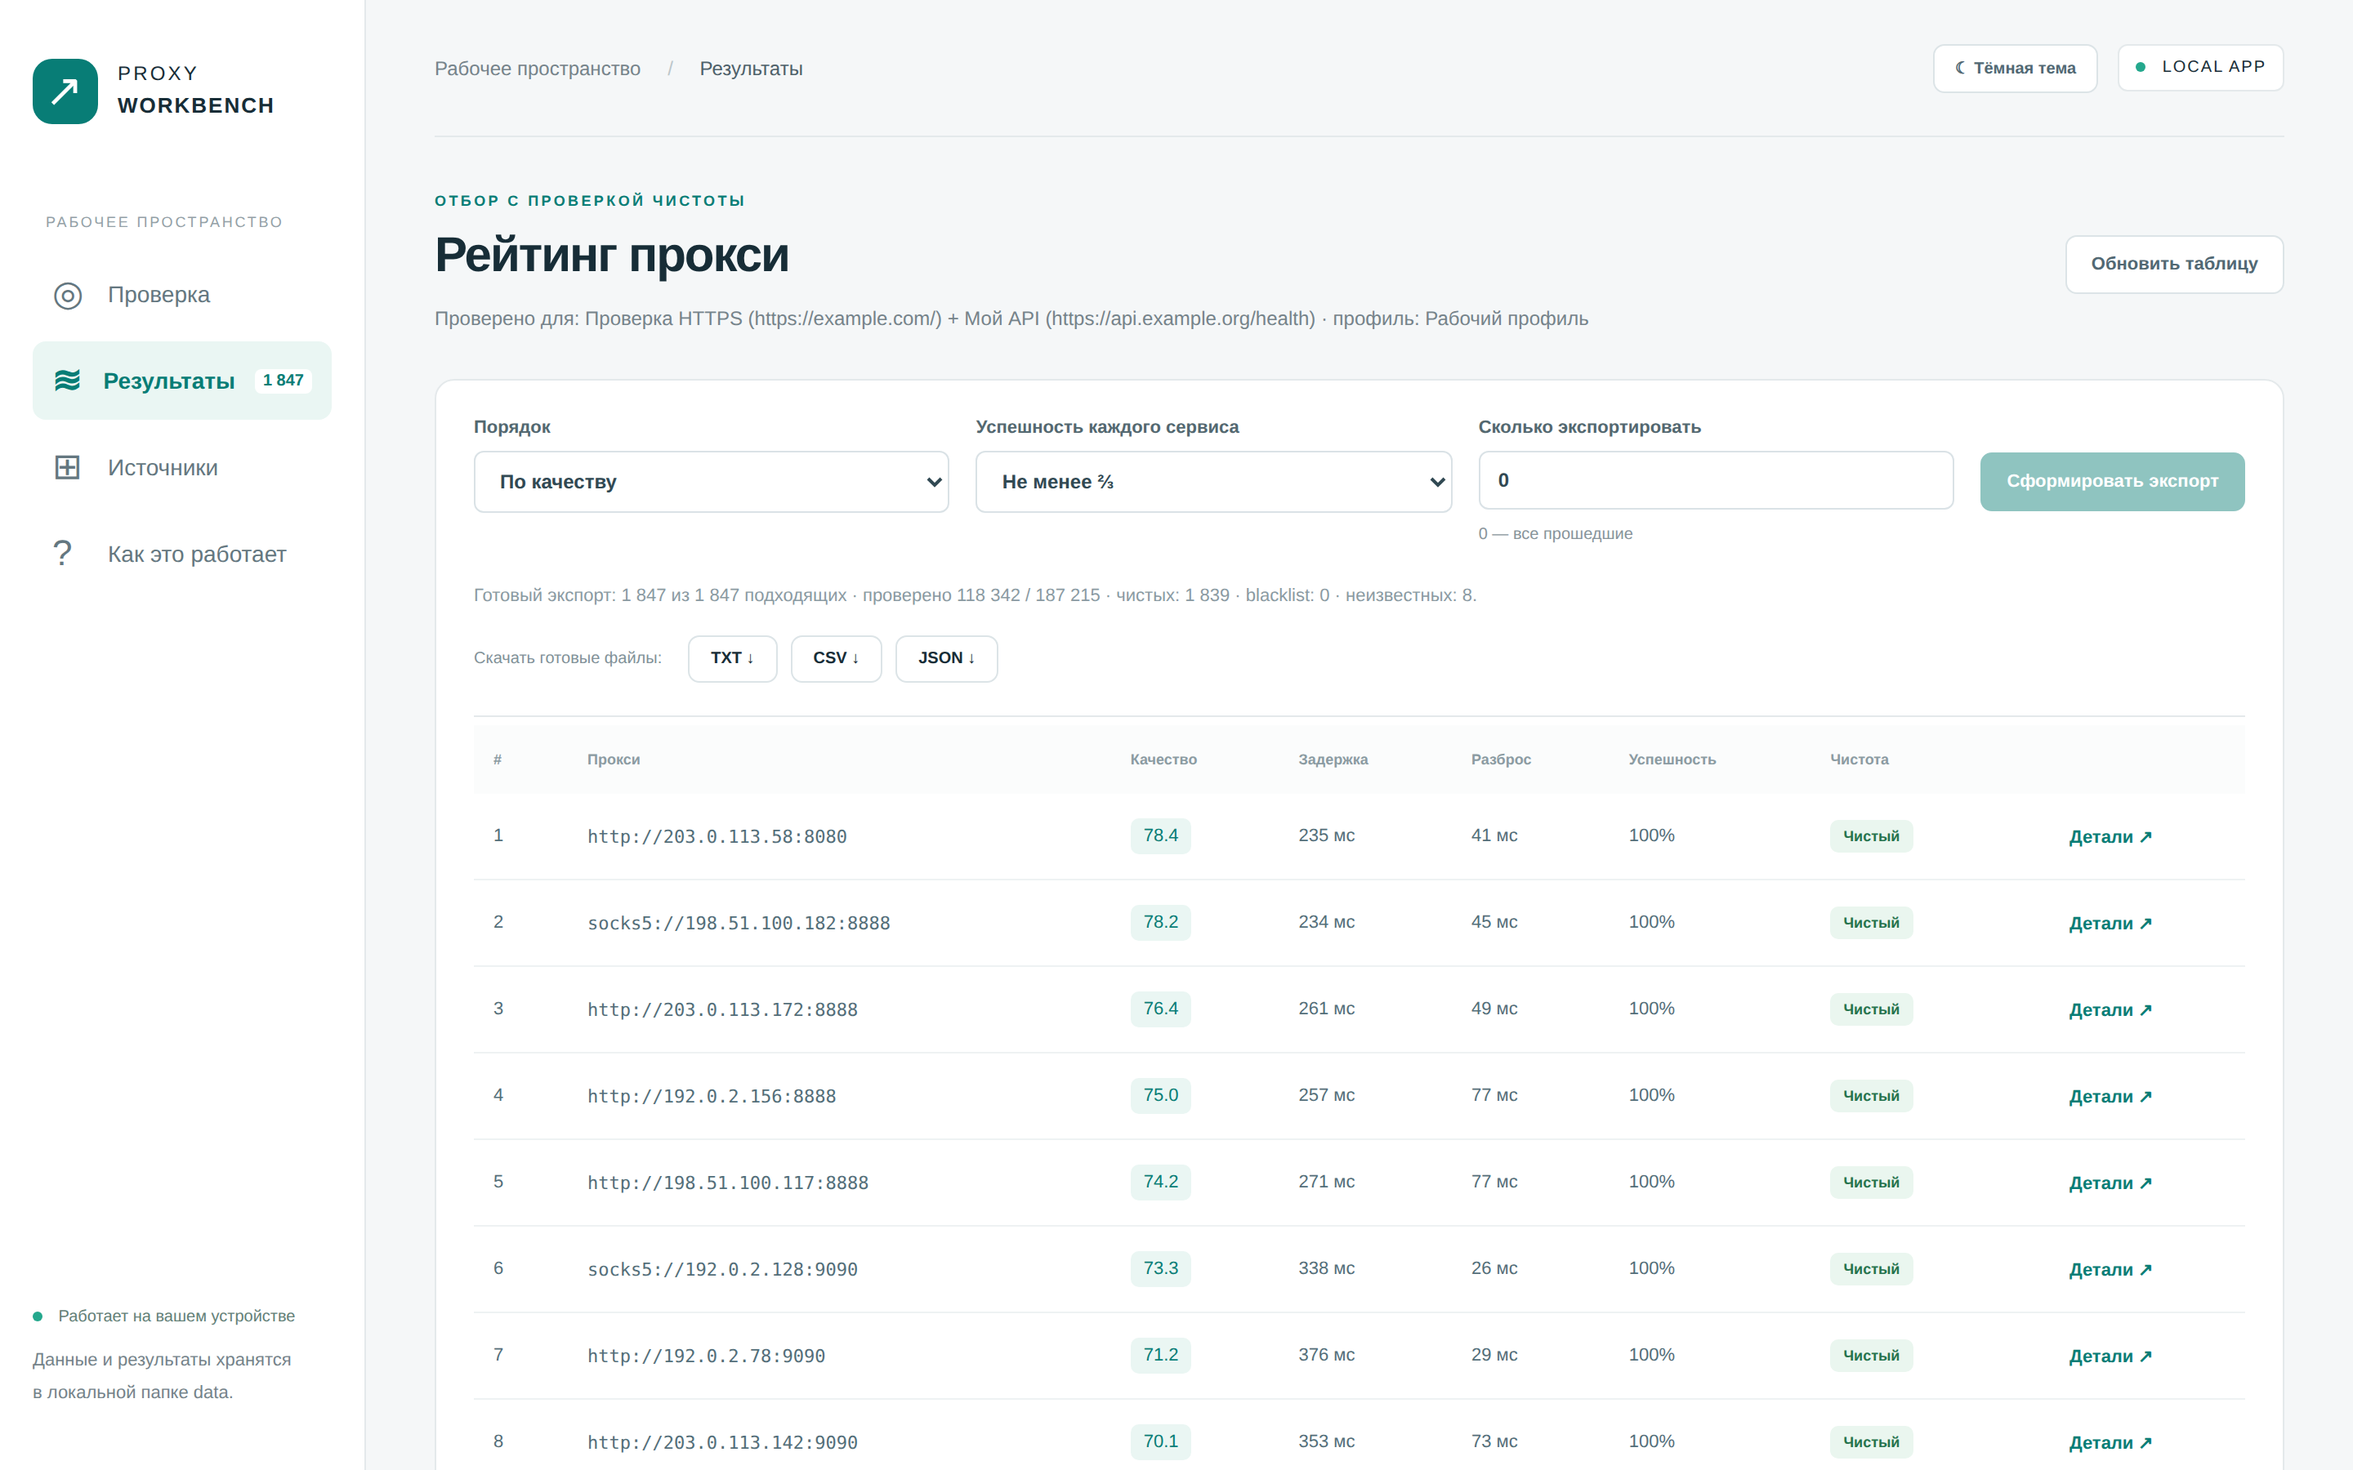
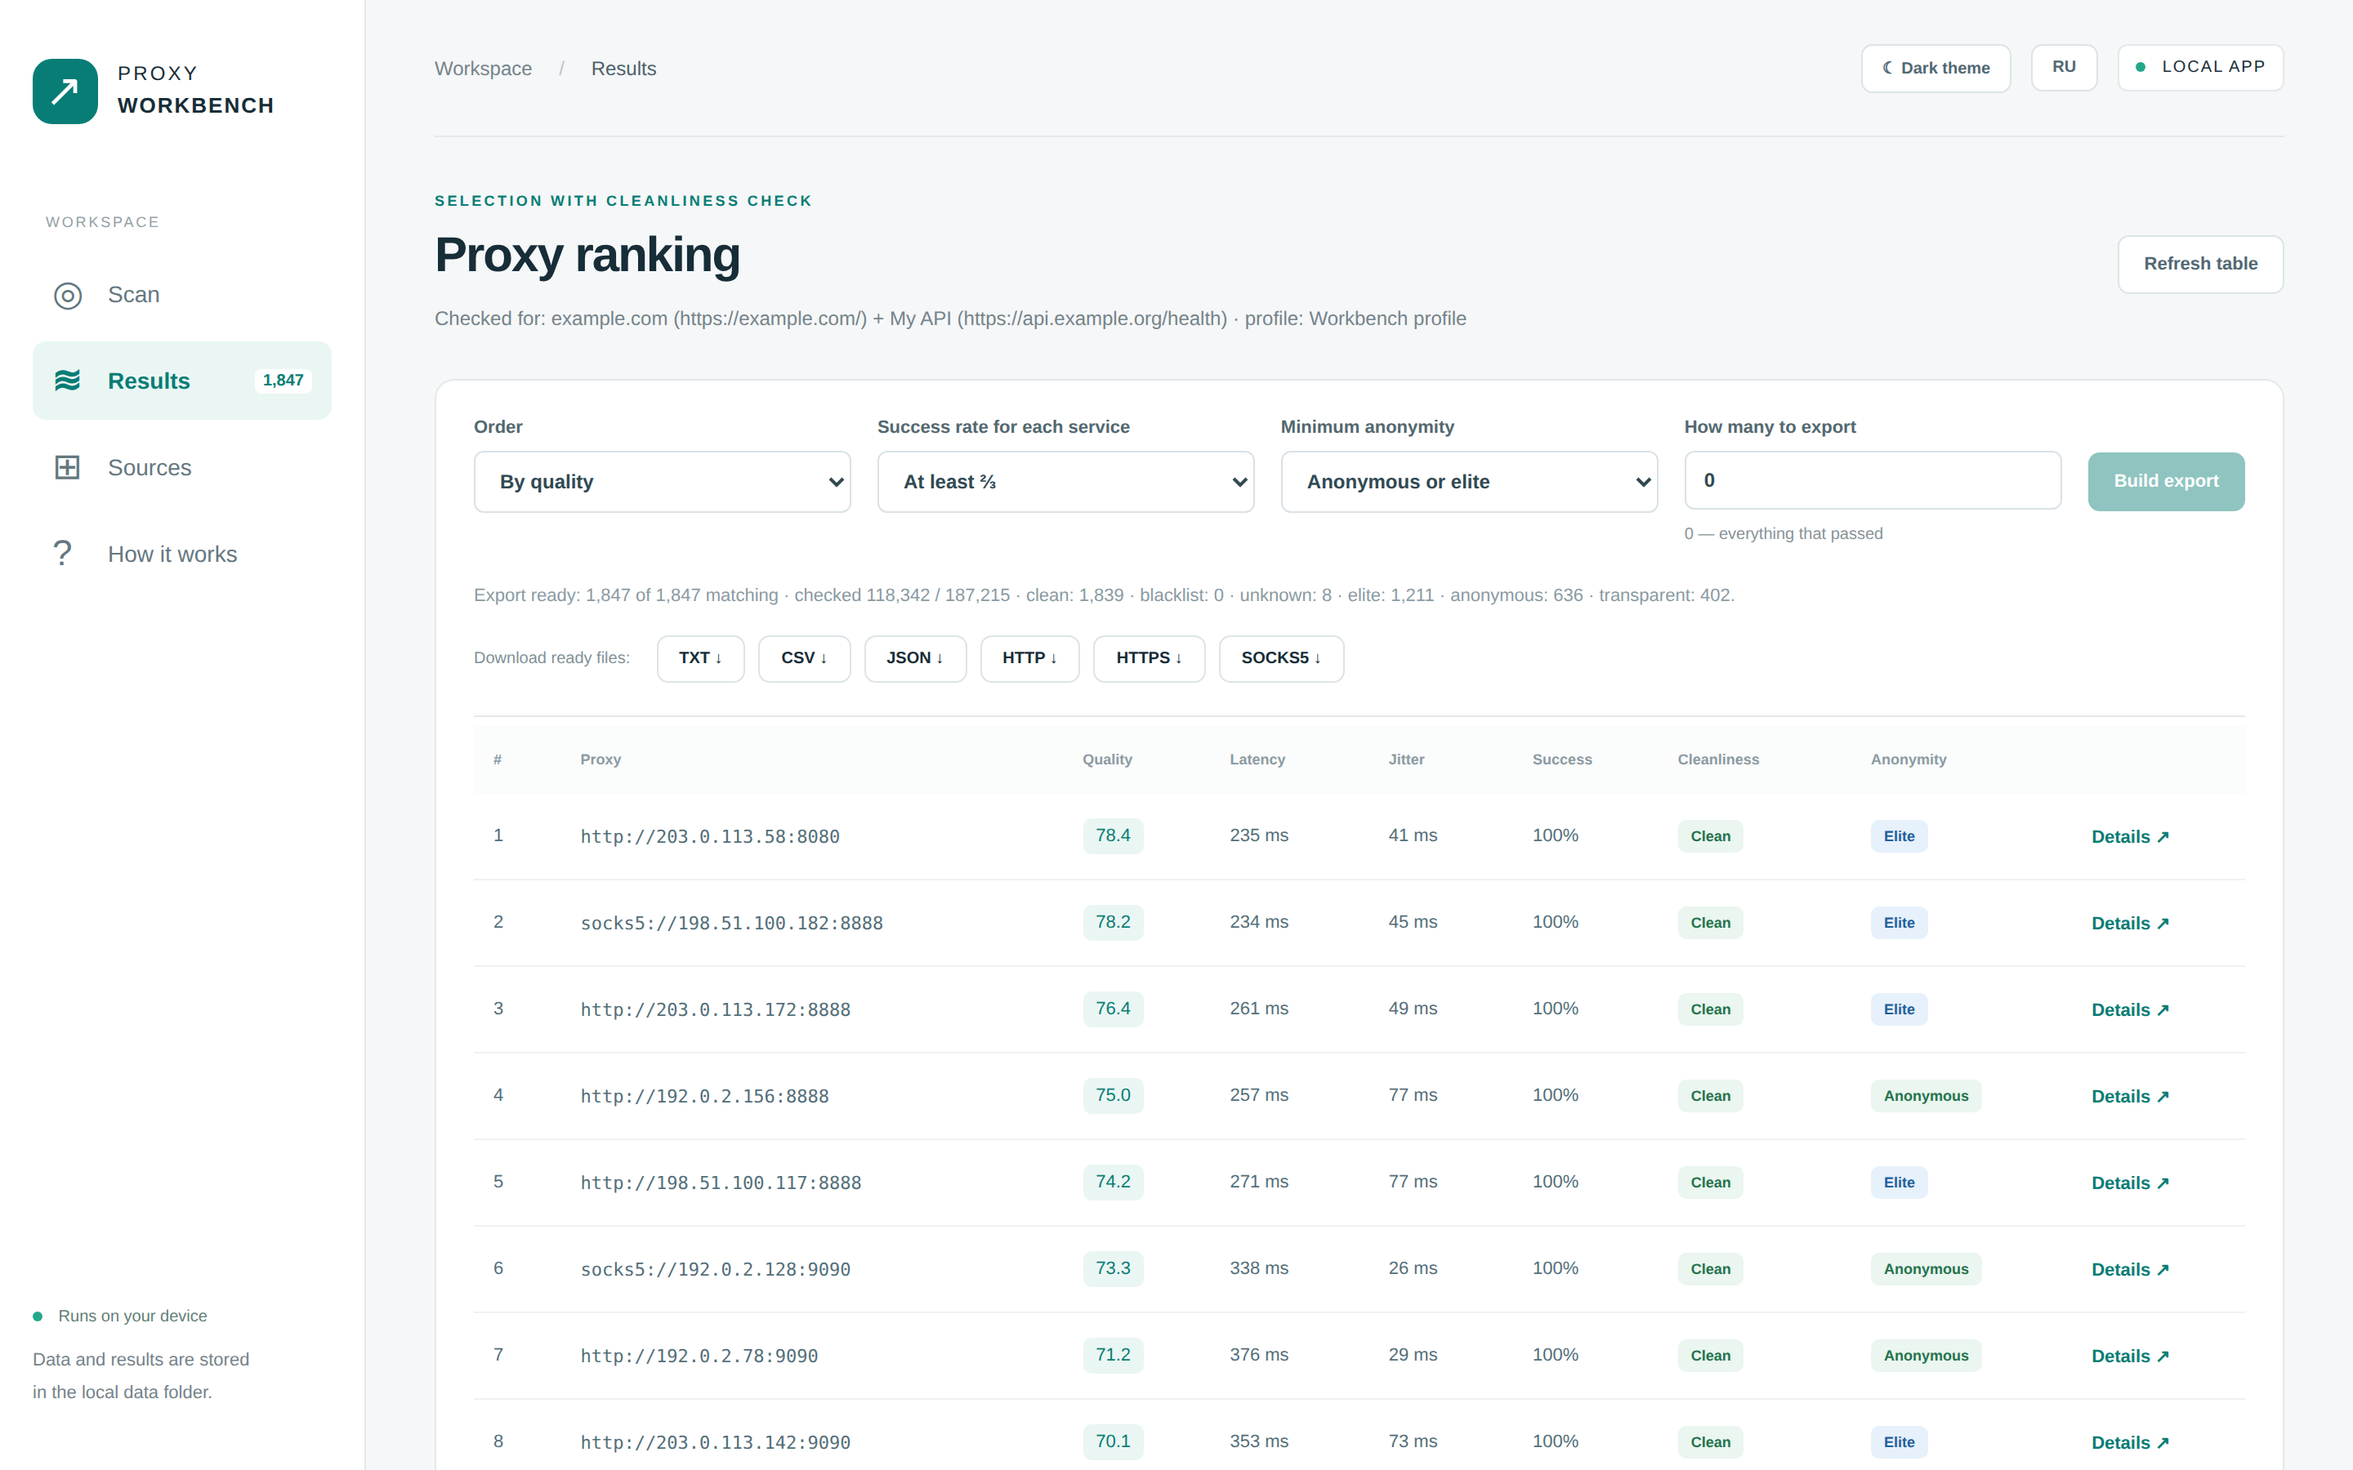
Release 1.3.0: docs, screenshots and version bump
- README (EN/RU): anonymity levels, protocol exports, EN/RU interface,
  judge FAQ, updated diagram, CLI and config examples
- PRIVACY: what an anonymity judge can observe
- English and Russian screenshots, refreshed social preview
- Neutral default service name (example.com) for both UI languages
- Version 1.3.0, CHANGELOG, SECURITY supported versions

Claude-Session: https://claude.ai/code/session_01Y2BXTaNwMeXkUgwaFmRD81

diff --git a/gui.py b/gui.py
@@ -53,7 +53,7 @@ def public_sources(values):
 
 
 def defaults():
-    return dict(settings_version=2, targets=[dict(name='Проверка HTTPS', url='https://example.com/', statuses=[200],
+    return dict(settings_version=2, targets=[dict(name='example.com', url='https://example.com/', statuses=[200],
                              contains='Example Domain', headers={}, method='GET')],
                 sources=json.loads((ROOT/'sources.json').read_text(encoding='utf-8')), use_sources=True,
                 proxies='', attempts=3, timeout=8, workers=128, rate=100,

diff --git a/branding.py b/branding.py
@@ -11,7 +11,7 @@ import json
 
 PRODUCT_NAME = "Proxy Workbench"
 PRODUCT_ID = "ProxyWorkbench"
-PRODUCT_VERSION = "1.2.0"
+PRODUCT_VERSION = "1.3.0"
 DEFAULT_REQUEST_PROFILE = "workbench"
 
 REQUEST_PROFILES = {

diff --git a/README.md b/README.md
@@ -4,9 +4,9 @@
 
 # Proxy Workbench
 
-**Collect free public proxies from 47 open lists, test every one against _your_ services, and keep only the fast, stable and clean ones.**
+**Collect free public proxies from 47 open lists, test every one against _your_ services, and keep only the fast, stable, clean and anonymous ones.**
 
-Local browser GUI + CLI · HTTP / HTTPS (CONNECT) / SOCKS5 · resumable · no accounts, no telemetry
+Local browser GUI (English / Russian) + CLI · HTTP / HTTPS (CONNECT) / SOCKS5 · anonymity levels · resumable · no accounts, no telemetry
 
 ![Python 3.11+](https://img.shields.io/badge/python-3.11%2B-3776AB?logo=python&logoColor=white)
 ![License: MIT](https://img.shields.io/badge/license-MIT-2ea44f)
@@ -30,7 +30,7 @@ Free proxy lists are everywhere, but most of what they contain is dead, slow, or
 
 - It gathers candidates from dozens of public lists (or your own files) and de-duplicates them.
 - It sends **real HTTP(S) requests through each proxy** to every service you specify — several times — and checks status codes, body text, or even a SHA-256 of the response.
-- It ranks survivors by **median latency, jitter and success rate**, flags **blacklisted IPs** (local denylist + optional DNSBL), and exports TXT / CSV / JSON.
+- It ranks survivors by **median latency, jitter and success rate**, flags **blacklisted IPs** (local denylist + optional DNSBL), rates **anonymity** (transparent / anonymous / elite) and exports TXT / CSV / JSON plus ready-to-use `host:port` lists per protocol.
 
 Everything runs on your machine. The GUI binds to `127.0.0.1` only.
 
@@ -58,11 +58,13 @@ Everything runs on your machine. The GUI binds to `127.0.0.1` only.
 | **Test against your services** | Several targets per profile (up to 20 in the GUI). A proxy passes only if it works for **all** of them. |
 | **Strict success rules** | Allowed status codes, required body substring, expected SHA-256, `GET`/`HEAD`, safe custom headers. Catches captcha and stub pages that still return `200`. |
 | **Repeated measurements** | N attempts per target (default 3), a per-target success threshold (e.g. 2 of 3), median latency and jitter. |
+| **Anonymity levels** | Point it at any echo “judge” page and every working proxy is rated **transparent** (leaks your IP), **anonymous** (reveals itself with `Via` / `X-Forwarded-For`) or **elite**. Filter with one click or `--min-anonymity elite`. |
 | **Cleanliness checks** | Local IP / CIDR / exact-proxy denylist plus optional DNSBL zones. Verdicts: `clean`, `listed`, `local_denied`, `unknown`, with an optional strict mode. |
 | **Built for big lists** | Bounded worker queue, rate limiter, automatic file-descriptor fitting. Tested with 190,000 simulated candidates. |
 | **Stop & resume** | Progress is stored in SQLite. `Ctrl+C` or **Stop** keeps finished work; the same command continues where it left off. |
-| **Ranking & export** | Sort by `quality` or `speed`, export top N (or all) to `proxies.txt`, `ranked.csv`, `ranked.json`. Crash-safe export generations. |
+| **Ranking & export** | Sort by `quality` or `speed`, export top N (or all) to `proxies.txt`, `ranked.csv`, `ranked.json`, plus `http.txt` / `https.txt` / `socks5.txt` in plain `host:port` format for other tools. Crash-safe export generations. |
 | **Safe by default** | Loopback-only GUI with a per-session token, CSRF/Host checks, SSRF-hardened source fetching (no private/metadata IPs, validated redirects, size limits), credential-like headers rejected. |
+| **English & Russian UI** | Switch with the EN/RU button; defaults to your browser language. Dark and light themes. |
 | **Zero setup** | Double-click launcher creates a virtual environment and installs the single dependency (`httpx[socks]`). |
 
 ## 🚀 Quick start
@@ -92,9 +94,10 @@ flowchart LR
     C --> D{"Local denylist /<br/>DNSBL"}
     D -- listed --> X["Excluded"]
     D -- "clean / unknown" --> E["N real requests<br/>per service<br/>through the proxy"]
-    E --> F["SQLite profile<br/>(resumable)"]
+    E --> J["Optional judge:<br/>transparent / anonymous / elite"]
+    J --> F["SQLite profile<br/>(resumable)"]
     F --> G["Rank: quality / speed"]
-    G --> H["proxies.txt · ranked.csv · ranked.json"]
+    G --> H["proxies.txt · ranked.csv · ranked.json<br/>http.txt · https.txt · socks5.txt"]
 ```
 
 **Scoring.** `speed` sorts by median time of a full successful request (connect + TLS + response). `quality` uses
@@ -133,6 +136,9 @@ cp service.example.json data/service.json
 ./run.sh export --top 500 --sort quality
 ./run.sh export --top 0 --sort speed --min-success 1
 
+# Rate anonymity with an echo judge and keep only elite proxies
+./run.sh run --judge-url http://judge.example/azenv.php --min-anonymity elite
+
 # Tune performance and cleanliness
 ./run.sh run --workers 256 --rate 100 --timeout 8 --attempts 3
 ./run.sh run --dnsbl --dnsbl-zone bl.example.org --strict-clean
@@ -148,6 +154,7 @@ cp service.example.json data/service.json
 {
   "request_profile": "workbench",
   "reputation": { "local_enabled": true, "dnsbl_enabled": false, "dnsbl_zones": [], "timeout": 2.5, "strict": false },
+  "anonymity": { "judge_url": "http://judge.example/azenv.php" },
   "targets": [
     {
       "url": "https://example.com/",
@@ -170,6 +177,7 @@ cp service.example.json data/service.json
 | `headers` | Safe headers only: `Accept*`, `Cache-Control`, `Pragma`, `User-Agent`, `X-Request-ID`, `X-Client-Version`. |
 | `request_profile` | `workbench`, `standard` or `minimal` — neutral User-Agent/Accept presets. |
 | `reputation` | Local denylist and DNSBL policy. |
+| `anonymity.judge_url` | Optional echo endpoint for anonymity levels (see [FAQ](#-faq)). |
 
 </details>
 
@@ -190,7 +198,7 @@ Remote lists are streamed with limits (8 MiB, 64 KiB per line, 100,000 candidate
 <details>
 <summary><b>All CLI options</b></summary>
 
-Run `./run.sh --help` for the complete list: `--input`, `--sources`, `--no-sources`, `--source-timeout`, `--url`, `--config`, `--request-profile`, `--attempts`, `--timeout`, `--workers`, `--rate`, `--max-bytes`, `--denylist-file`, `--local-denylist/--no-local-denylist`, `--dnsbl`, `--dnsbl-zone`, `--reputation-timeout`, `--strict-clean`, `--recheck`, `--top`, `--sort`, `--min-success`, `--data`.
+Run `./run.sh --help` for the complete list: `--input`, `--sources`, `--no-sources`, `--source-timeout`, `--url`, `--config`, `--request-profile`, `--attempts`, `--timeout`, `--workers`, `--rate`, `--max-bytes`, `--denylist-file`, `--local-denylist/--no-local-denylist`, `--dnsbl`, `--dnsbl-zone`, `--reputation-timeout`, `--strict-clean`, `--judge-url`, `--min-anonymity`, `--recheck`, `--top`, `--sort`, `--min-success`, `--data`.
 
 </details>
 
@@ -201,7 +209,7 @@ Everything is written to the git-ignored `data/` folder:
 | Path | Content |
 | --- | --- |
 | `data/proxies.sqlite3` | candidates, profiles and every measurement |
-| `data/exports/` | `proxies.txt`, `ranked.csv`, `ranked.json`, `status.json` |
+| `data/exports/` | `proxies.txt`, `ranked.csv`, `ranked.json`, `http.txt`, `https.txt`, `socks5.txt`, `status.json` |
 | `data/sources-report.json` | per-source rows, rejects and errors |
 | `data/denylist.txt` | your IP / CIDR / proxy rules (`#` comments allowed) |
 | `data/gui-settings.json` | GUI settings |
@@ -227,6 +235,18 @@ It depends on how many candidates respond. The worst case — ~190,000 dead addr
 **Why did a proxy that works in my browser fail here?**
 Redirects are not followed, TLS certificates are verified, and each target must pass on its own threshold. Check **Details** for the exact error of every attempt.
 
+**What do transparent / anonymous / elite mean, and which judge should I use?**
+A *judge* is any page that echoes back the IP and headers it received — for example an `httpbin`-style `/get` endpoint or an `azenv.php` script (ideally one you host yourself). Proxy Workbench asks it once directly to learn your public IP (kept in memory only, never saved), then once through every working proxy:
+
+| Level | Meaning |
+| --- | --- |
+| `transparent` | your real IP is visible to the site |
+| `anonymous` | your IP is hidden, but the proxy announces itself (`Via`, `X-Forwarded-For`, …) |
+| `elite` | neither your IP nor proxy headers are visible |
+| `unknown` | the judge request through the proxy failed |
+
+Use an **`http://`** judge: through an HTTPS tunnel a proxy cannot add headers, so every proxy would look elite.
+
 **What does “clean” mean?**
 The IP is not in your local denylist and (if enabled) not listed by the DNSBL zones you chose. It is a reputation signal, not a guarantee of safety.
 
@@ -240,7 +260,8 @@ Checking public lists is generally fine, but you are responsible for respecting 
 
 - [x] English interface with an EN/RU switch
 - [ ] `pipx install` / PyPI package and a single `proxy-workbench` command
-- [ ] Anonymity level detection (transparent / anonymous / elite) via a user-hosted echo endpoint
+- [x] Anonymity level detection (transparent / anonymous / elite)
+- [x] Per-protocol `host:port` exports
 - [ ] Optional GeoIP country column and country filters from a local database
 - [ ] Scheduled re-checks of the best proxies
 - [ ] Docker image for headless servers

diff --git a/CHANGELOG.md b/CHANGELOG.md
@@ -4,22 +4,33 @@
 
 ## [Unreleased]
 
+## [1.3.0] — 2026-09-24
+
 ### Added
 
-- English `README.md` with screenshots, feature overview, quick start, FAQ and roadmap; full Russian documentation moved to `README.ru.md`.
+- **Anonymity levels.** Optional judge URL (`--judge-url`, GUI field, config key `anonymity`) rates every working proxy as `transparent`, `anonymous` or `elite`. The machine's own public IP is learned with one direct judge request and kept in memory only.
+- `--min-anonymity any|anonymous|elite` filter for scans, exports and the results table; anonymity column, details and level counts in `status.json`.
+- Per-protocol `host:port` exports: `http.txt`, `https.txt`, `socks5.txt` (also downloadable from the GUI).
+- English interface with an EN/RU toggle next to the theme switch; defaults to the browser language, remembered in `localStorage`, localized number formatting. Server messages and the run log are translated in English mode.
+- English `README.md` with screenshots, feature overview, quick start, FAQ and roadmap; full Russian documentation in `README.ru.md`.
 - Screenshots and social preview image in `docs/assets/` (synthetic data from documentation IP ranges).
 - Pull request template, question issue template, Dependabot configuration, `.editorconfig` and `.gitattributes` (CRLF for `Start.bat`, LF for shell launchers).
-- Pip caching and superseded-run cancellation in CI.
+
+### Changed
+
+- CI caches pip downloads and cancels superseded runs.
+- Profiles without a judge URL keep their previous identity, so existing results stay valid after the upgrade.
+
+## [1.2.0] — 2026-09-24
+
+### Added
 
 - MIT license с нейтральным copyright holder.
 - Public security, privacy, contribution и code of conduct policies.
 - Source-only project metadata с Python 3.11+ и pinned `httpx[socks]` dependency.
 - Cross-platform CI matrix для локальных mock-based unit tests.
 - Structured bug report и feature request issue templates.
-- English translation of the browser GUI with an EN/RU toggle next to the theme switch. The language defaults to the browser locale, is remembered in `localStorage`, and also localizes number formatting. Server-side error messages and the execution log are still Russian only.
 - Bounded source downloads, redirect validation with pinned validated IPs, safe-header policy, crash-safe export generations with bounded retention, on-demand result details, and explicit local-data cleanup.
-
-## [1.2.0] — In development
 
 ### Changed
 

diff --git a/SECURITY.md b/SECURITY.md
@@ -4,7 +4,8 @@
 
 | Version | Supported |
 | --- | --- |
-| 1.2.x | Yes |
+| 1.3.x | Yes |
+| 1.2.x | Security fixes only on request |
 | Older versions | No |
 
 Исправления безопасности публикуются для актуальной ветки `main`. Обновляйте локальную копию и зависимости после выхода новой версии.
